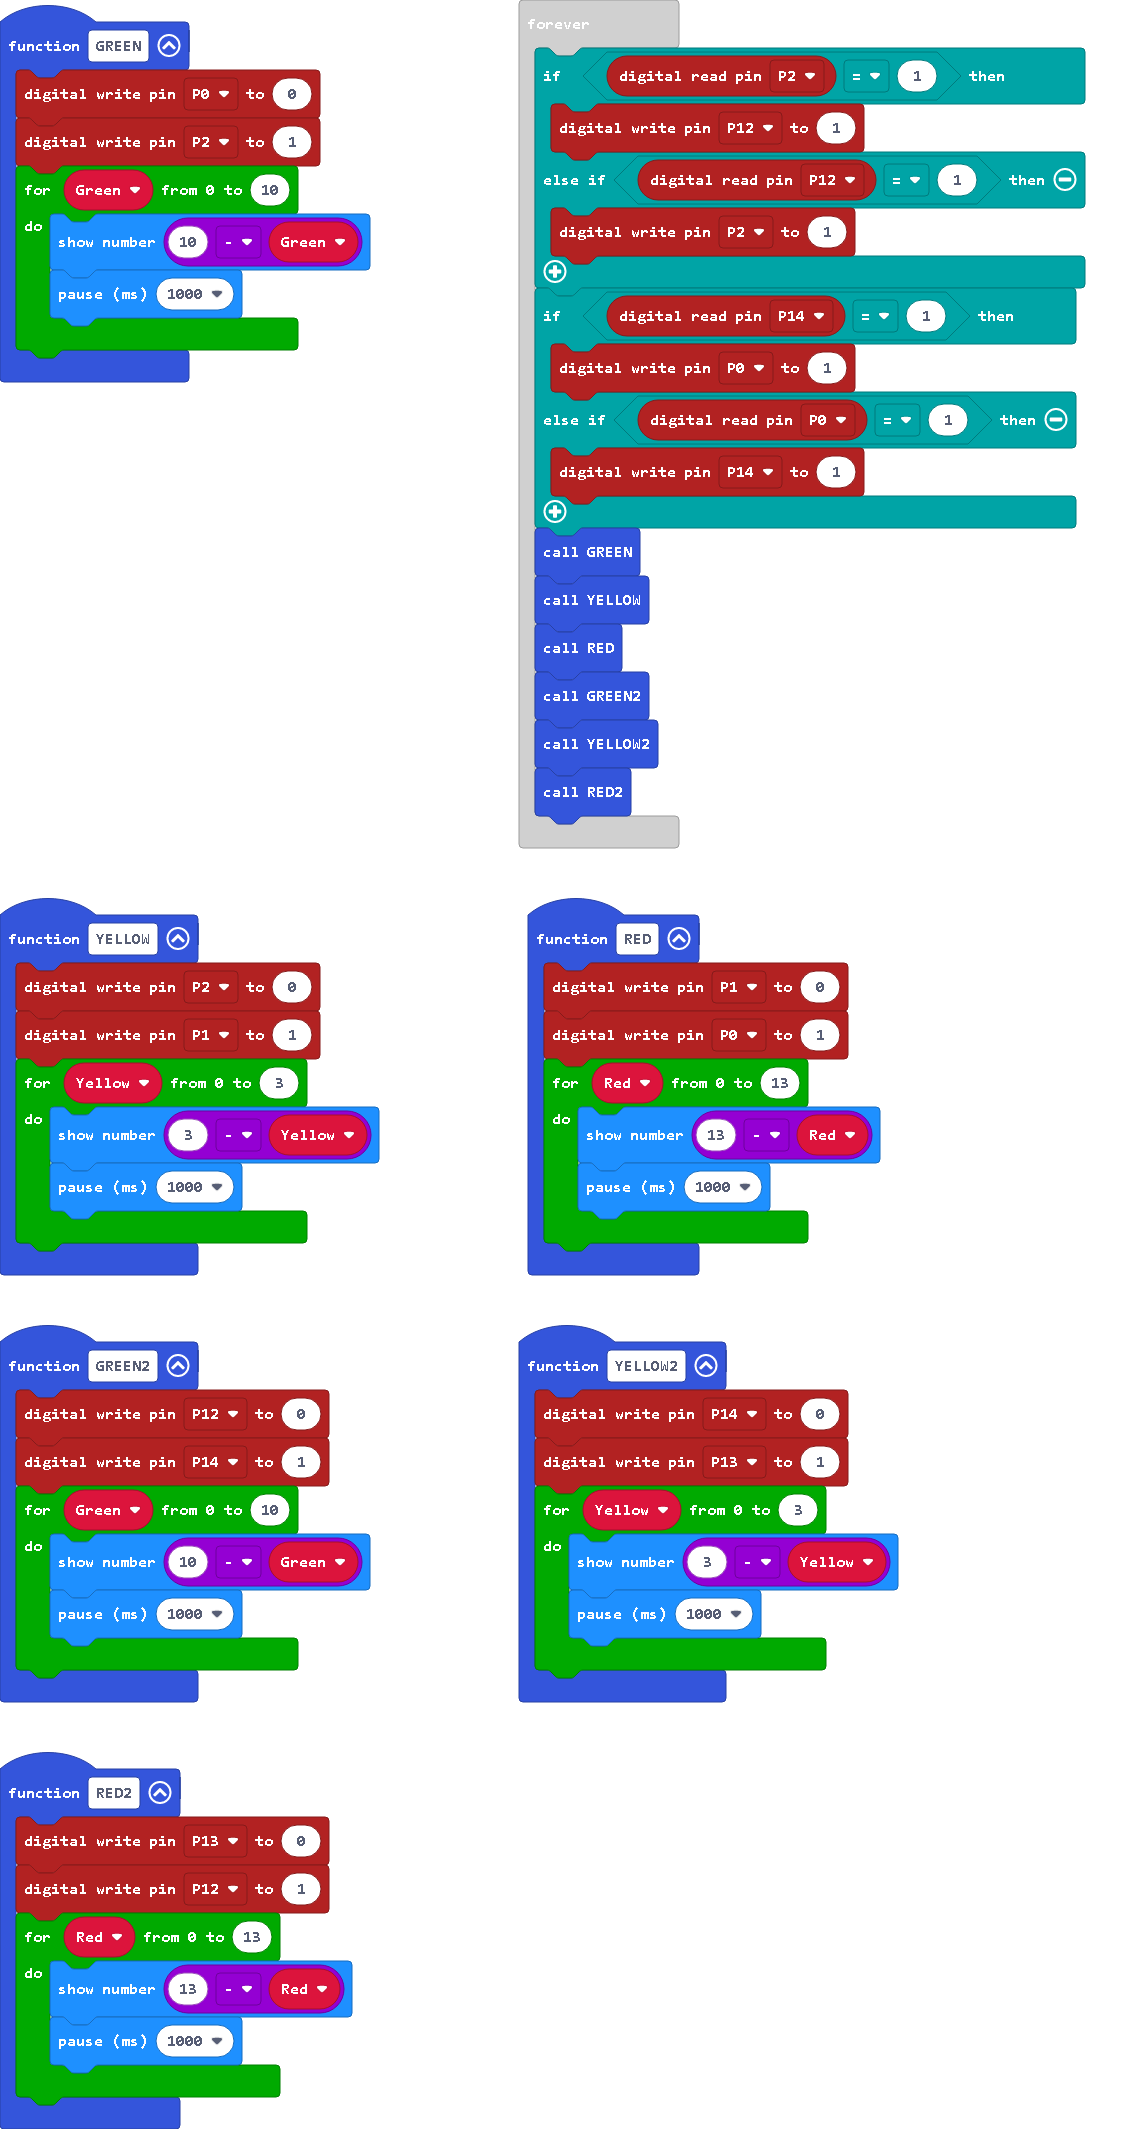
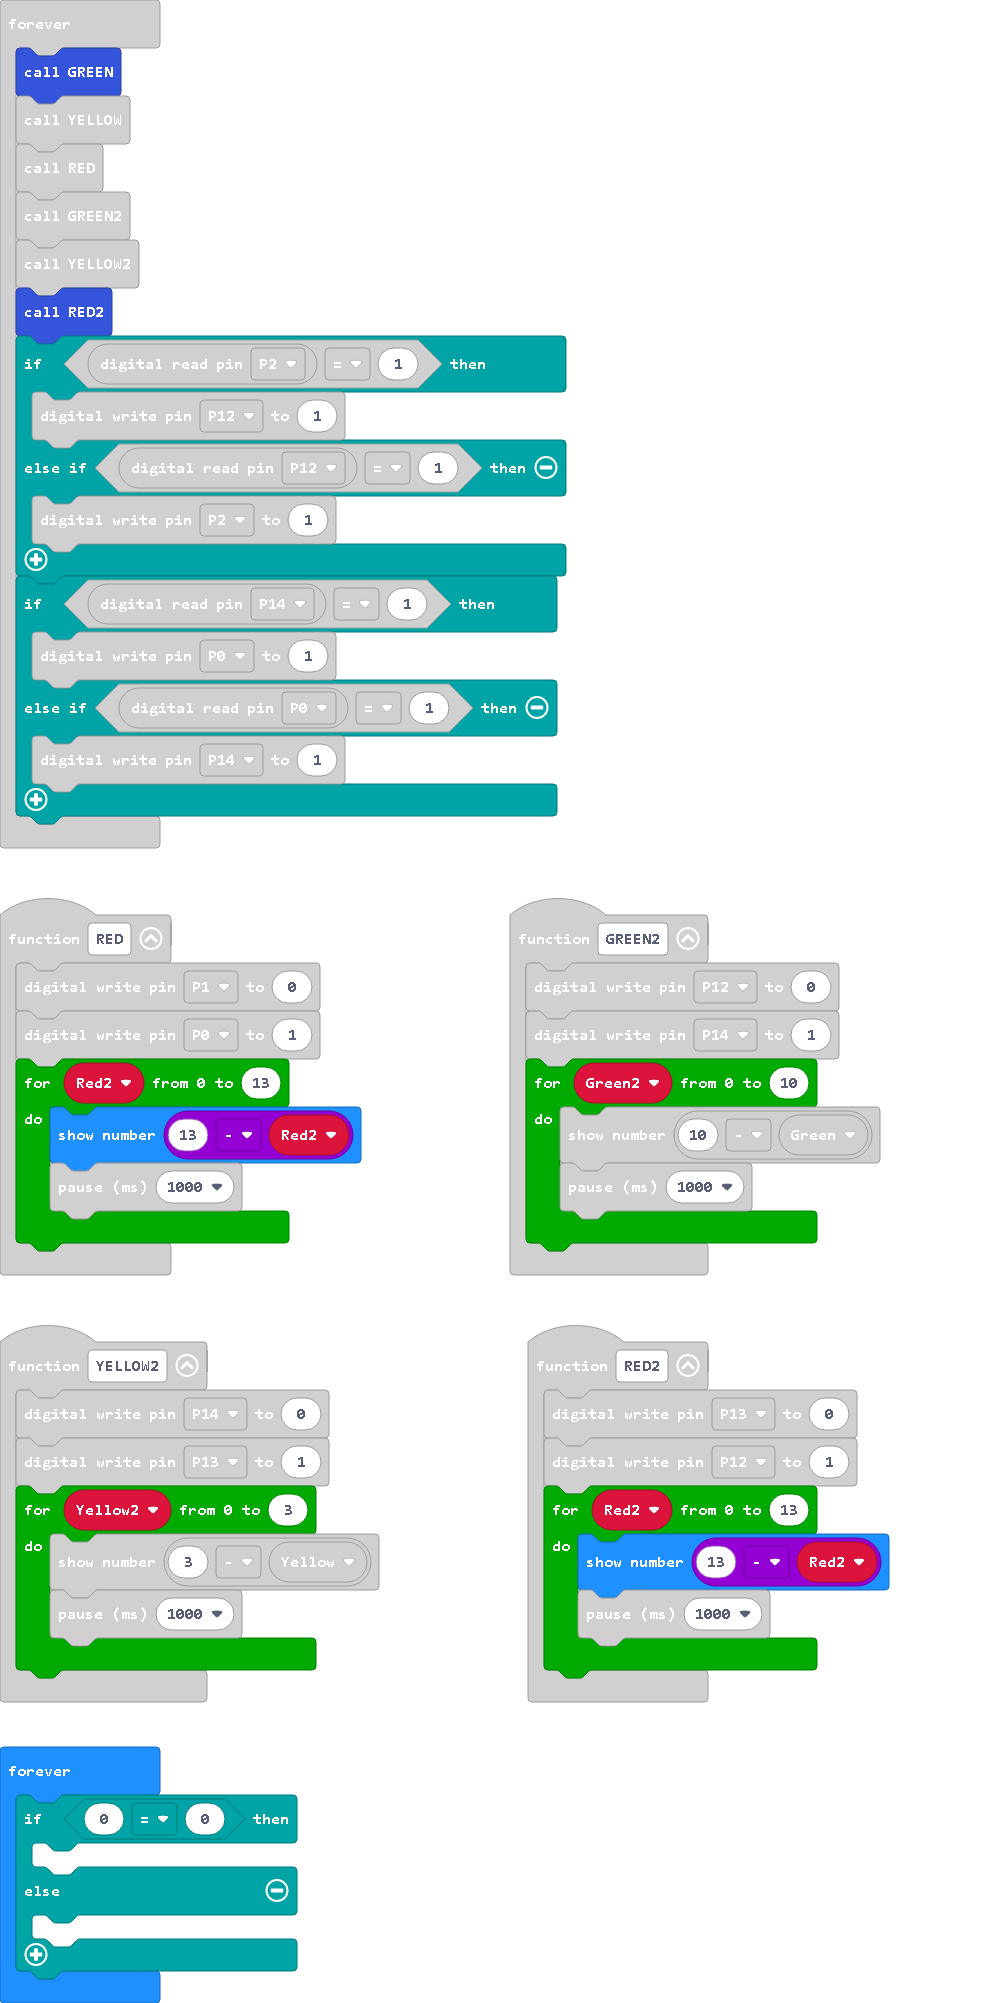
Update main.blocks, main.ts

diff --git a/main.ts b/main.ts
@@ -1,8 +1,8 @@
 function RED () {
     pins.digitalWritePin(DigitalPin.P1, 0)
     pins.digitalWritePin(DigitalPin.P0, 1)
-    for (let Red = 0; Red <= 13; Red++) {
-        basic.showNumber(13 - Red)
+    for (let Red2 = 0; Red2 <= 13; Red2++) {
+        basic.showNumber(13 - Red2)
         basic.pause(1000)
     }
 }
@@ -17,7 +17,8 @@ function GREEN () {
 function GREEN2 () {
     pins.digitalWritePin(DigitalPin.P12, 0)
     pins.digitalWritePin(DigitalPin.P14, 1)
-    for (let Green = 0; Green <= 10; Green++) {
+    for (let Green2 = 0; Green2 <= 10; Green2++) {
+        let Green = 0
         basic.showNumber(10 - Green)
         basic.pause(1000)
     }
@@ -25,15 +26,16 @@ function GREEN2 () {
 function RED2 () {
     pins.digitalWritePin(DigitalPin.P13, 0)
     pins.digitalWritePin(DigitalPin.P12, 1)
-    for (let Red = 0; Red <= 13; Red++) {
-        basic.showNumber(13 - Red)
+    for (let Red2 = 0; Red2 <= 13; Red2++) {
+        basic.showNumber(13 - Red2)
         basic.pause(1000)
     }
 }
 function YELLOW2 () {
     pins.digitalWritePin(DigitalPin.P14, 0)
     pins.digitalWritePin(DigitalPin.P13, 1)
-    for (let Yellow = 0; Yellow <= 3; Yellow++) {
+    for (let Yellow2 = 0; Yellow2 <= 3; Yellow2++) {
+        let Yellow = 0
         basic.showNumber(3 - Yellow)
         basic.pause(1000)
     }
@@ -47,6 +49,12 @@ function YELLOW () {
     }
 }
 basic.forever(function () {
+    GREEN()
+    YELLOW()
+    RED()
+    GREEN2()
+    YELLOW2()
+    RED2()
     if (pins.digitalReadPin(DigitalPin.P2) == 1) {
         pins.digitalWritePin(DigitalPin.P12, 1)
     } else if (pins.digitalReadPin(DigitalPin.P12) == 1) {
@@ -57,10 +65,11 @@ basic.forever(function () {
     } else if (pins.digitalReadPin(DigitalPin.P0) == 1) {
         pins.digitalWritePin(DigitalPin.P14, 1)
     }
-    GREEN()
-    YELLOW()
-    RED()
-    GREEN2()
-    YELLOW2()
-    RED2()
+})
+basic.forever(function () {
+    if (0 == 0) {
+    	
+    } else {
+    	
+    }
 })
